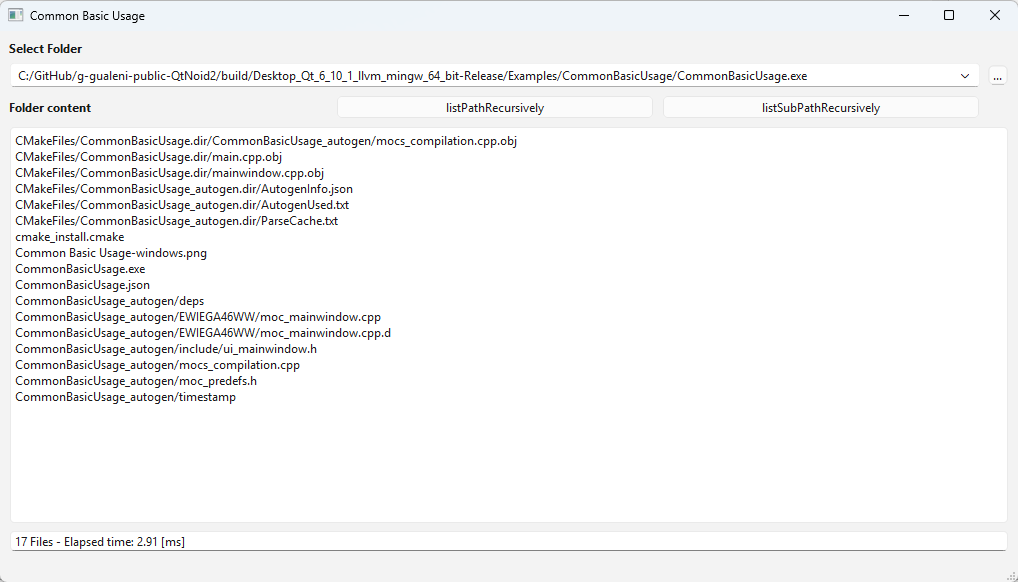
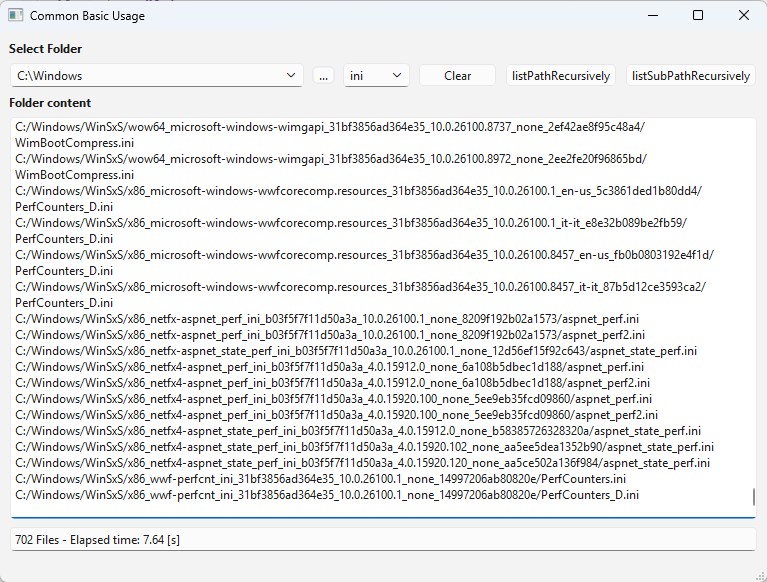
Working wit Common Basic Usage Example

diff --git a/Examples/CommonBasicUsage/mainwindow.cpp b/Examples/CommonBasicUsage/mainwindow.cpp
@@ -14,7 +14,9 @@ MainWindow::MainWindow(QWidget *parent)
     , ui(new Ui::MainWindow)
 {
     ui->setupUi(this);
-    initFromAppConfig();
+
+
+    restoreFromAppConfig();
     m_screenshotShortcut = QtNoid::App::Development::initFullDialogGrabShortcut(this);
 
     setWindowTitle("Common Basic Usage");    
@@ -24,22 +26,43 @@ MainWindow::~MainWindow()
 {
     appConfig->saveValue("Geometry", saveGeometry());
     appConfig->saveValue("RecentList", txtFolderList());
+    appConfig->saveValue("RecentListCurrent", ui->txtFolder->currentText());
+    appConfig->saveValue("NameFilters", txtNameFilters());
+    appConfig->saveValue("NameFiltersCurrent", ui->txtNameFilters->currentText());
     delete ui;
 }
 
 QStringList MainWindow::txtFolderList()
 {
     QStringList items;
-    items.reserve(ui->txtFolder->count());
-    for (int i = 0; i < ui->txtFolder->count(); ++i) {
-        items << ui->txtFolder->itemText(i);
+    auto itemCount = ui->txtFolder->count();
+    items.reserve(itemCount);
+    for (int ii = 0; ii < itemCount; ++ii) {
+        items << ui->txtFolder->itemText(ii);
     }
+    return items;
+}
+
+QStringList MainWindow::txtNameFilters()
+{
+    QStringList items;
+    auto itemCount = ui->txtNameFilters->count();
+    items.reserve(itemCount+1);
+    for (int ii = 0; ii < itemCount; ++ii) {
+        items << ui->txtNameFilters->itemText(ii);
+    }
+    auto current = ui->txtNameFilters->currentText();
+    if(!current.isEmpty()) {
+        items << current;
+    }
+    items.removeDuplicates();
     return items;
 }
 
 void MainWindow::update_txtPathList(const QStringList &list, qint64 elapsedTime)
 {
-    ui->txtPathList->setPlainText(list.join('\n'));
+    ui->txtPathList->appendPlainText(list.join('\n'));
+    // ui->txtPathList->setPlainText(list.join('\n'));
     ui->txtStats->setText(QString("%1 Files - Elapsed time: %2")
                               .arg(QLocale().toString(list.count()),
                                    QtNoid::Common::Scale::nanoSecsUpToDays(elapsedTime)));
@@ -60,15 +83,22 @@ void MainWindow::on_cmdSelectFolder_clicked()
 
 void MainWindow::on_cmdListPathRecursively_clicked()
 {
-    ui->txtPathList->setPlainText("Scanning folder...");
+    QString msg = "Scanning folder...";
+    auto nameFilters = txtNameFilters();
+    if(!nameFilters.isEmpty()) {
+        msg += "for files ending with: " + nameFilters.join("; ");
+    }
+    ui->txtPathList->setPlainText(msg);
+
     ui->txtStats->clear();
     QApplication::processEvents();
 
     QElapsedTimer ET;
     ET.start();
 
-    const QStringList res = QtNoid::Common::File::listPathRecursively(ui->txtFolder->currentText());
-    ui->txtPathList->setPlainText("Scanning folder... Done!\nCreating result text...");
+    const QStringList res = QtNoid::Common::File::listPathRecursively(
+        ui->txtFolder->currentText(), nameFilters);
+    ui->txtPathList->appendPlainText("Scanning folder... Done!\nCreating result text...");
     QApplication::processEvents();
 
     update_txtPathList(res, ET.nsecsElapsed());
@@ -77,32 +107,59 @@ void MainWindow::on_cmdListPathRecursively_clicked()
 
 void MainWindow::on_cmdListSubPathRecursively_clicked()
 {
-    ui->txtPathList->setPlainText("Generating sub folder list...");
+    QString msg = "Generating relative path list...";
+    auto nameFilters = txtNameFilters();
+    if(!nameFilters.isEmpty()) {
+        msg += "for files ending with: " + nameFilters.join("; ");
+    }
+    ui->txtPathList->setPlainText(msg);
     ui->txtStats->clear();
     QApplication::processEvents();
 
     QElapsedTimer ET;
     ET.start();
 
-    const QStringList res = QtNoid::Common::File::listSubPathRecursively(ui->txtFolder->currentText());
-    ui->txtPathList->setPlainText("Generating sub folder list... Done!\nCreating result text...");
+    const QStringList res = QtNoid::Common::File::listSubPathRecursively(
+        ui->txtFolder->currentText(), nameFilters);
+
+    ui->txtPathList->appendPlainText("Generating sub folder list... Done!\nCreating result text...");
     QApplication::processEvents();
 
     update_txtPathList(res, ET.nsecsElapsed());
 }
 
 
-void MainWindow::initFromAppConfig()
+void MainWindow::restoreFromAppConfig()
 {
     // Geometry
     restoreGeometry(appConfig->restoreAsByteArray("Geometry", saveGeometry()));
 
     // Recent folder list
-    auto list = appConfig->restoreAsStringList("RecentList", txtFolderList());
-    list.append(qApp->applicationFilePath());
+    auto list = appConfig->restoreAsStringList("RecentList", {});
     list.removeDuplicates();
     ui->txtFolder->clear();
     ui->txtFolder->addItems(list);
+    auto current = appConfig->restoreAsString("RecentListCurrent", ui->txtFolder->currentText());
+    if(current.isEmpty() && list.isEmpty()) {
+        qDebug() << Q_FUNC_INFO;
+        current = QtNoid::App::Settings::appExeOrAppBundleDirPath();
+    }
+    ui->txtFolder->setCurrentText(current);
+
+
+    list = appConfig->restoreAsStringList("NameFilters", txtNameFilters());
+    list.removeDuplicates();
+    ui->txtNameFilters->clear();
+    ui->txtNameFilters->addItems(list);
+    current = appConfig->restoreAsString("NameFiltersCurrent", ui->txtNameFilters->currentText());
+    ui->txtNameFilters->setCurrentText(current);
+
 }
 
+
+
+void MainWindow::on_cmdClearNameFilters_clicked()
+{
+    ui->txtNameFilters->clear();
+}
 

diff --git a/QtNoidApp/src/configfile.cpp b/QtNoidApp/src/configfile.cpp
@@ -14,14 +14,14 @@ namespace App {
 ConfigFile::ConfigFile(QObject *parent)
     : Config(parent)
 {
-    // qDebug() << __func__ ;
+    // qDebug() << Q_FUNC_INFO;
 }
 
 
 ConfigFile::ConfigFile(const QString &fileName, QObject *parent)
     : Config(parent)
 {
-    // qDebug() << __func__ << this;
+    // qDebug() << Q_FUNC_INFO << "|" << this;
     initFileName(fileName);
     load();
 }
@@ -29,7 +29,7 @@ ConfigFile::ConfigFile(const QString &fileName, QObject *parent)
 
 ConfigFile::~ConfigFile()
 {
-    // qDebug() << __func__;
+    // qDebug() << Q_FUNC_INFO;
     save();
 }
 
@@ -63,7 +63,7 @@ bool ConfigFile::isValid()
 
 bool ConfigFile::load()
 {
-    // qDebug() << __func__ ;
+    // qDebug() << Q_FUNC_INFO;
     if(!isValid())
         return false;
 
@@ -103,7 +103,7 @@ bool ConfigFile::save()
     QTextStream text(&file);
     text << doc.toJson();
 
-    // qDebug() << __func__;
+    // qDebug() << Q_FUNC_INFO;
     return true;
 }
 

diff --git a/Examples/JsonYamlToJsonTestSuite/mainwindow.cpp b/Examples/JsonYamlToJsonTestSuite/mainwindow.cpp
@@ -51,7 +51,7 @@ MainWindow::MainWindow(QWidget *parent)
 
     initAppConfigFile();
     connect(appConfig, &QtNoid::App::ConfigFile::fileLoaded, this, [&](const QString& fName){
-        initFromAppConfig();
+        restoreFromAppConfig();
     });
     appConfig->load();
 
@@ -106,7 +106,7 @@ MainWindow::MainWindow(QWidget *parent)
 }
 
 
-void MainWindow::initFromAppConfig()
+void MainWindow::restoreFromAppConfig()
 {
     // qDebug() << __func__ ;
 

diff --git a/Examples/CommonBasicUsage/mainwindow.h b/Examples/CommonBasicUsage/mainwindow.h
@@ -25,9 +25,12 @@ private slots:
     void on_cmdListPathRecursively_clicked();
     void on_cmdListSubPathRecursively_clicked();
 
+    void on_cmdClearNameFilters_clicked();
+
 private:
-    void initFromAppConfig();
+    void restoreFromAppConfig();
     QStringList txtFolderList();
+    QStringList txtNameFilters();
     void update_txtPathList(const QStringList &list, qint64 elapsedTime);
 
 private:

diff --git a/Examples/JsonYamlToJsonTestSuite/mainwindow.h b/Examples/JsonYamlToJsonTestSuite/mainwindow.h
@@ -66,7 +66,7 @@ private:
     void onCmdSaveTestDataset();
     void onCreateNewTest();
     void initAppConfigFile();
-    void initFromAppConfig();
+    void restoreFromAppConfig();
 
 };
 #endif // MAINWINDOW_H

diff --git a/QtNoidApp/doc/QtNoidApp.md b/QtNoidApp/doc/QtNoidApp.md
@@ -8,10 +8,11 @@ This module contains:
 - [**ParameterList**](doc/ParameterList.md): Container class for managing multiple Parameter instances with binding support and serialization. This class can be used to manage a page of parameters.
 
 - [**Config**](doc/Config.md): Container class for managing multiple ParameterList instances with binding support and serialization. This class can be used to manage a bunch of pages of parameters.
+- 
 
 - [**ConfigFile**](doc/ConfigFile.md): Wrapper around Config with methods to support the automation of read and write of a configuration file.
 
-- [**ConfigGlobal**](doc/ConfigGlobal.md): this is a singleton class that create the unique instance for appConfig that can be used to save and restore application configuration.
+- [**ConfigGlobal**](doc/ConfigGlobal.md): this is a singleton class that create a unique instance of ConfigFile, available as **appConfig** that can be used to save and restore application configuration.
 
 - [**Development**](doc/Development.md): this is a collection of methods that help creating an application and are not intended to be customer facing. API like saveConfigToProject() that saves config file into the development project resources, or initFullDialogGrabShortcut() that create a shortcut to print the application screen and save it in the application or bundle folder.
 

diff --git a/QtNoidApp/doc/ConfigGlobal.md b/QtNoidApp/doc/ConfigGlobal.md
@@ -1,4 +1,30 @@
 # Class: ConfigGlobal
+This is a singleton class that create a unique instance of the class [**ConfigFile**](ConfigFile.md), available as a global variable called **appConfig** that can be used to save and restore automatically the application last configuration.
+The configuration is stored in a file called as the application executable with suffix .json
+The configuration is saved automatically when the application is terminated and it is restored when the application start.
+This is the macro that map appConfig, in the configglobal.h file:
+
+`#define appConfig (QtNoid::App::ConfigGlobal::instance())`
+
+## CMake
+```
+find_package: QtNoidApp
+
+target_link_libraries: QtNoid::QtNoidApp
+```
+## Header
+
+```cpp
+#include "QtNoidApp/QtNoidApp"
+```
+
+
+ConfigFile
+- in a JSON filed with the same name of the application
+- #define appConfig (QtNoid::App::ConfigGlobal::instance())
+
+namespace QtNoid {
+namespace App {
 
 
 [⬆ Back to QtNoidApp](QtNoidApp.md)

diff --git a/Examples/Examples.md b/Examples/Examples.md
@@ -11,8 +11,7 @@ Each example is a standalone CMake project with its own documentation page, link
 ## QtNoidCommon examples
 
 * **[CommonBasicUsage](CommonBasicUsage/doc/CommonBasicUsage.md)**:
-  Shows how to use `QtNoid::Common::File::listPathRecursively()` and `listSubPathRecursively()`,
-  including a live benchmark of their speed on different platforms.
+  Shows how to use `QtNoid::Common::File::listPathRecursively()` and `listSubPathRecursively()`, including a live benchmark of their speed on different platforms.
 
 ## QtNoidApp examples
 
@@ -36,6 +35,5 @@ Each example is a standalone CMake project with its own documentation page, link
 * **[JsonYamlToJsonTestSuite](JsonYamlToJsonTestSuite/doc/JsonYamlToJsonTestSuite.md)**:
   Comprehensive test suite that validates YAML to JSON conversion across various formats and edge cases.
 
-&nbsp;
 
 [← Back to README](../README.md)

diff --git a/Examples/CommonBasicUsage/doc/CommonBasicUsage.md b/Examples/CommonBasicUsage/doc/CommonBasicUsage.md
@@ -12,7 +12,4 @@ This can be used to test the speed of the API on different platforms.
 
 
 
-## See Also
-
-- [QtNoidCommon](../../../QtNoidCommon/doc/QtNoidCommon.md) library documentation
 [← Back to README](../../../README.md)

diff --git a/QtNoidApp/doc/ConfigFile.md b/QtNoidApp/doc/ConfigFile.md
@@ -2,6 +2,4 @@
 
 [⬆ Back to QtNoidApp](QtNoidApp.md)
 
-&nbsp;
-
 [← Back to README](../../README.md)
